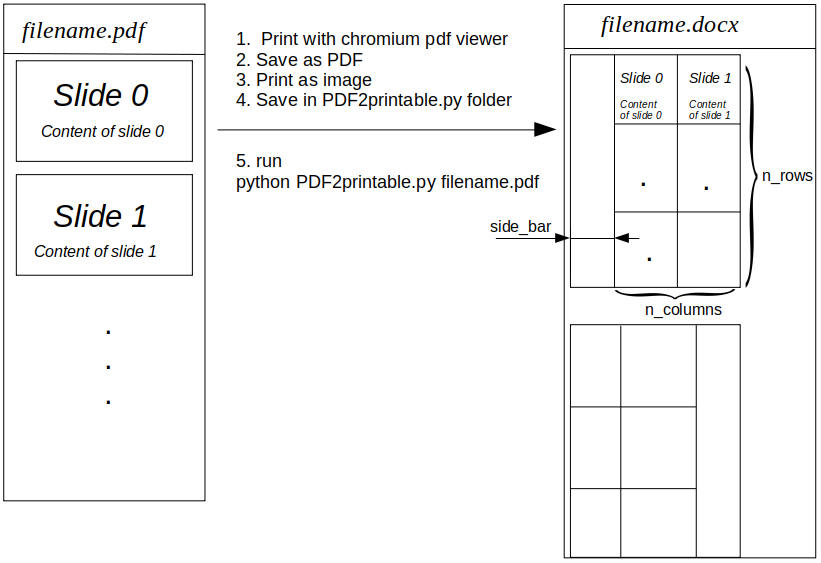
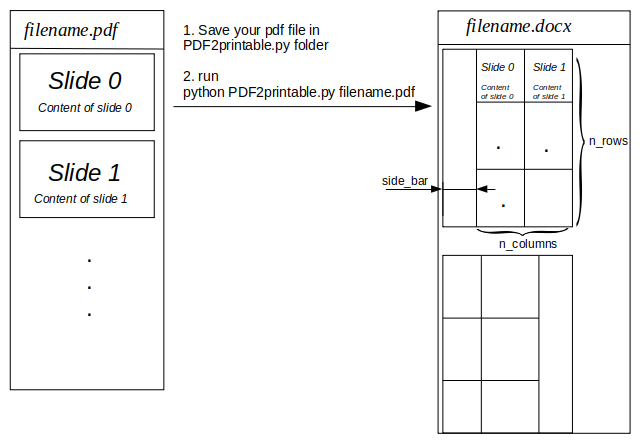
Every PDF can now be converted and python3 supported

Changed region(s): [[0.0, 0.0, 0.9953, 1.0], [0.8087, 0.7091, 0.8709, 0.7386]]

diff --git a/PDF2printable.py b/PDF2printable.py
@@ -1,17 +1,16 @@
 import PyPDF4
-
 from PIL import Image
 import io
 from docx import Document
-import StringIO
 from docx.shared import Cm, Inches
 from docx.enum.table import WD_TABLE_ALIGNMENT
 import sys
 from insert_images import *
+from wand.image import Image as wImage
 
 ##Change this parameter to change the page format
 #rows of images grid
-n_rows = 3       
+n_rows = 3
 #columns of images grid
 n_columns = 2
 #width of the sidebar
@@ -28,10 +27,10 @@ document = Document()
 
 #set shape to A4 paper
 sections = document.sections
-doc_height = sections[0].page_height = Cm(29.7) 
+doc_height = sections[0].page_height = Cm(29.7)
 doc_width = sections[0].page_width  = Cm(21.0)
 img_width = (doc_width - side_bar)/n_columns * 0.98
-img_height = (doc_height - top_bar)/n_rows * .97 	
+img_height = (doc_height - top_bar)/n_rows * .93
 
 
 #remove margins of the page
@@ -45,102 +44,82 @@ for section in sections:
 	#section.gutter = Cm(0)
 	#section.header.is_linked_to_previous = True
 	#section.footer.is_linked_to_previous = True
-	
+
 sizes = [n_rows, n_columns, side_bar, top_bar, img_width, img_height]
 
 
 
 if __name__ == "__main__":
-	
+
 	#errror if file not provided
 	if(len(sys.argv) < 2):
 		print("Usage: python PDF2printable.py <namefile.pdf>")
 		exit(1)
-	
 
-	
+
+
 	input1 = PyPDF4.PdfFileReader(open(sys.argv[1], "rb"))
-	
+
 	#n of pages in pdf document
 	n_pages = input1.getNumPages()
-	
+
 	#n of images per docx page
 	n_imgs_per_doc_page = n_rows*n_columns
-	
+
 	#list for images data
 	imgs_per_page = []
-	
+
 	#flag to check if page is right or left
 	right_page = True
-	
-	#for every page in the pdf get the images and if n_imgs_per_doc_page are in the list add them to a docx page 
+
+	resolution = 200
+
+	#for every page in the pdf get the images and if n_imgs_per_doc_page are in the list add them to a docx page
 	for page_number in range(n_pages):
-		
+
 		#if the number of slide per page is reached insert them in a docx page
 		if len(imgs_per_page) == n_imgs_per_doc_page:
-				
+
 				insert_images(document, sizes, imgs_per_page, right_page)
-				
+
 				#"flip" page for the next page
 				right_page = not right_page
-				
+
 				#create a blank new page
 				if new_page:
 					document.add_page_break()
-					
+
 				#remove the images in the images buffer
 				imgs_per_page = []
-				
-				
+
 		#for every image in the pdf file send it to the images butter (imgs_per_page)
-		#credit to stackoverflow
 		page0 = input1.getPage(page_number)
-		xObject = page0['/Resources']['/XObject'].getObject()
+		dst_pdf = PyPDF4.PdfFileWriter()
+		dst_pdf.addPage(page0)
+		pdf_bytes = io.BytesIO()
+		dst_pdf.write(pdf_bytes)
+		pdf_bytes.seek(0)
+		page_img = wImage(file = pdf_bytes, resolution = resolution)
+		page_img = page_img.make_blob('JPG')
+		imgs_per_page.append(page_img)
 
-		for obj in xObject:
-			if xObject[obj]['/Subtype'] == '/Image':
-				size = (xObject[obj]['/Width'], xObject[obj]['/Height'])
-				data = xObject[obj].getData()
-				if xObject[obj]['/ColorSpace'] == '/DeviceRGB':
-					mode = "RGB"
-				else:
-					mode = "P"
+		sys.stdout.flush()
+		sys.stdout.write("\r{0}.".format("Converting page "+ str(page_number+1) + " of "+ str(n_pages)))
 
-				if xObject[obj]['/Filter'] == '/FlateDecode':
-					img = Image.frombytes(mode, size, data)
-					imgs_per_page.append(img)
-					
-					#to save the image
-					#img.save(obj[1:] + ".png")
-					
-				elif xObject[obj]['/Filter'] == '/DCTDecode':
-					
-					imgs_per_page.append(data)
-					
-					#to save the image
-					#img = open(obj[1:] + ".jpg", "wb")
-					#img.write(data)
-					#img.close()
-				elif xObject[obj]['/Filter'] == '/JPXDecode':
-					
-					imgs_per_page.append(data)
-					
-					#to save the image
-					#img = open(obj[1:] + ".jp2", "wb")
-					#img.write(data)
-					#img.close()
-					
 	#if there are still images in the butter put them in a new page by repeating the above scrpt
 	# NOTE: just a repetition of the code above
-	if len(imgs_per_page) != 0: 
-			insert_images(document, sizes, imgs_per_page, right_page)	
-				
-			#since this is supposed to be the last page i don't need to flip it	
+	if len(imgs_per_page) != 0:
+			insert_images(document, sizes, imgs_per_page, right_page)
+
+			#since this is supposed to be the last page i don't need to flip it
 			#right_page = not right_page
-				
-			#clear memory		
+
+			#clear memory
 			imgs_per_page = []
 
-
 #save the docx file
-document.save(sys.argv[1].replace(".pdf", ".docx"))
+
+filename = sys.argv[1]
+document.save(filename.replace(".pdf", ".docx"))
+print('')
+print('Done. :) \nDocument saved as \'' + filename.replace(".pdf",".docx") + '\'.')

diff --git a/insert_images.py b/insert_images.py
@@ -1,7 +1,10 @@
 from PIL import Image
 import io
 from docx import Document
-import StringIO
+try:
+    from StringIO import StringIO as StringIO ## for Python 2
+except ImportError:
+    from io import BytesIO as StringIO  ## for Python 3
 from docx.shared import Cm
 from docx.enum.table import WD_TABLE_ALIGNMENT
 from math import ceil
@@ -56,10 +59,10 @@ def white_border(cell):
 
 def insert_images(document, sizes, imgs_per_page, right_page):
 	n_rows, n_columns, side_bar, top_bar, img_width, img_height = sizes
-	
+
 	#get tables in docx document
 	tables = document.tables
-	
+
 	#start by a 0x(n_columns+1) grid
 	table = document.add_table(rows=1, cols=n_columns+1)
 	table.rows[0].height = top_bar
@@ -68,70 +71,68 @@ def insert_images(document, sizes, imgs_per_page, right_page):
 		table.columns[0].width = side_bar
 		for j in range(1,len(table.columns)):
 			table.columns[j].width = int(ceil(img_width))
-		
+
 	else: #put the border in the right
 		for j in range(len(table.columns)-1):
 				table.columns[j].width = int(ceil(img_width))
 		table.columns[-1].width = side_bar
-			
+
 	table.style = "Table Grid"
 	table.autofit = False
 	table.allow_autofit = False
 
 	#if right_page:
 	#	table.alignment = WD_TABLE_ALIGNMENT.LEFT
-	#else: 
+	#else:
 	#	table.alignment = WD_TABLE_ALIGNMENT.LEFT
-		
+
 	#index for the column in the grid to insert the image
 	col = 0
-				
+
 	#add a row to the table
 	row_cells = table.add_row().cells
 	row_cells[0].height = img_height
-	
+
 	#for every image
 	for i in range(0,len(imgs_per_page)):
-					
+
 		#get the image to print in the table this cycle
 		image = imgs_per_page[i]
-										
-		#every n_column image change row by creating a new row 
+
+		#every n_column image change row by creating a new row
 		if(col == n_columns):
 			col = 0
 			row_cells = table.add_row().cells
 			row_cells[0].height = img_height
-	
+
 		#change border accoring to right or left page
 		if right_page:
 			actual_col = col+1
 		else:
 			actual_col = col
-		
-		
-		#create paragraph within the table 
+
+
+		#create paragraph within the table
 		paragraph = row_cells[actual_col].paragraphs[0]
 		paragraph.style = 'List'
 		cell_paragraph_format = paragraph.paragraph_format
 		cell_paragraph_format.left_indent = Cm(0.1)
 		cell_paragraph_format.right_indent = Cm(0)
-		
+
 		#set alignment of picture inside the table
 		if right_page:
 			paragraph.alignment = WD_TABLE_ALIGNMENT.LEFT
-		else: 
+		else:
 			paragraph.alignment = WD_TABLE_ALIGNMENT.RIGHT
-					
+
 		#add image to table
 		run = paragraph.add_run()
-		run.add_picture(StringIO.StringIO(image), width = img_width , height = img_height)
+		run.add_picture(StringIO(image), width = img_width , height = img_height)
 		run.space_before = Cm(0)
-					
+
 		col += 1
-	
+
 	#set border to white
 	for i in range(len(table.rows)):
 		for j in range(len(table.columns)):
 			white_border(table.cell(i,j))
-						
-		
